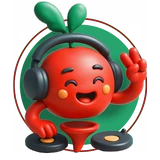
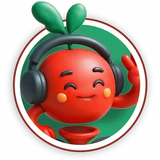
New Chopped Beats button art
Close-up beet as the normal state, full beet DJ on hover (160px WebP,
about 11 KB each). The files are now named for their state again, so
fabs.js lists them in the natural order. Gaps between the floating
buttons re-measured: still even (14-14.5px desktop, 16.5-17px mobile).

Claude-Session: https://claude.ai/code/session_013pC8Zb8Ra4BpXVspKAFr11

diff --git a/fabs.js b/fabs.js
@@ -93,7 +93,7 @@
       '/apps/scritch-scratch/' + pet[0], '/apps/scritch-scratch/' + pet[1]);
     if (pet[2]) dog.querySelectorAll('img').forEach(function (img) { img.style.top = pet[2] + 'px'; });
     var beet = badge('beat-fab', 'https://chopped-beats.waltviviers.com/', "Open Chopped Beats",
-      '/apps/chopped-beats/fab-over.webp', '/apps/chopped-beats/fab-up.webp');
+      '/apps/chopped-beats/fab-up.webp', '/apps/chopped-beats/fab-over.webp');
 
     var frag = document.createDocumentFragment();
     frag.appendChild(game);
